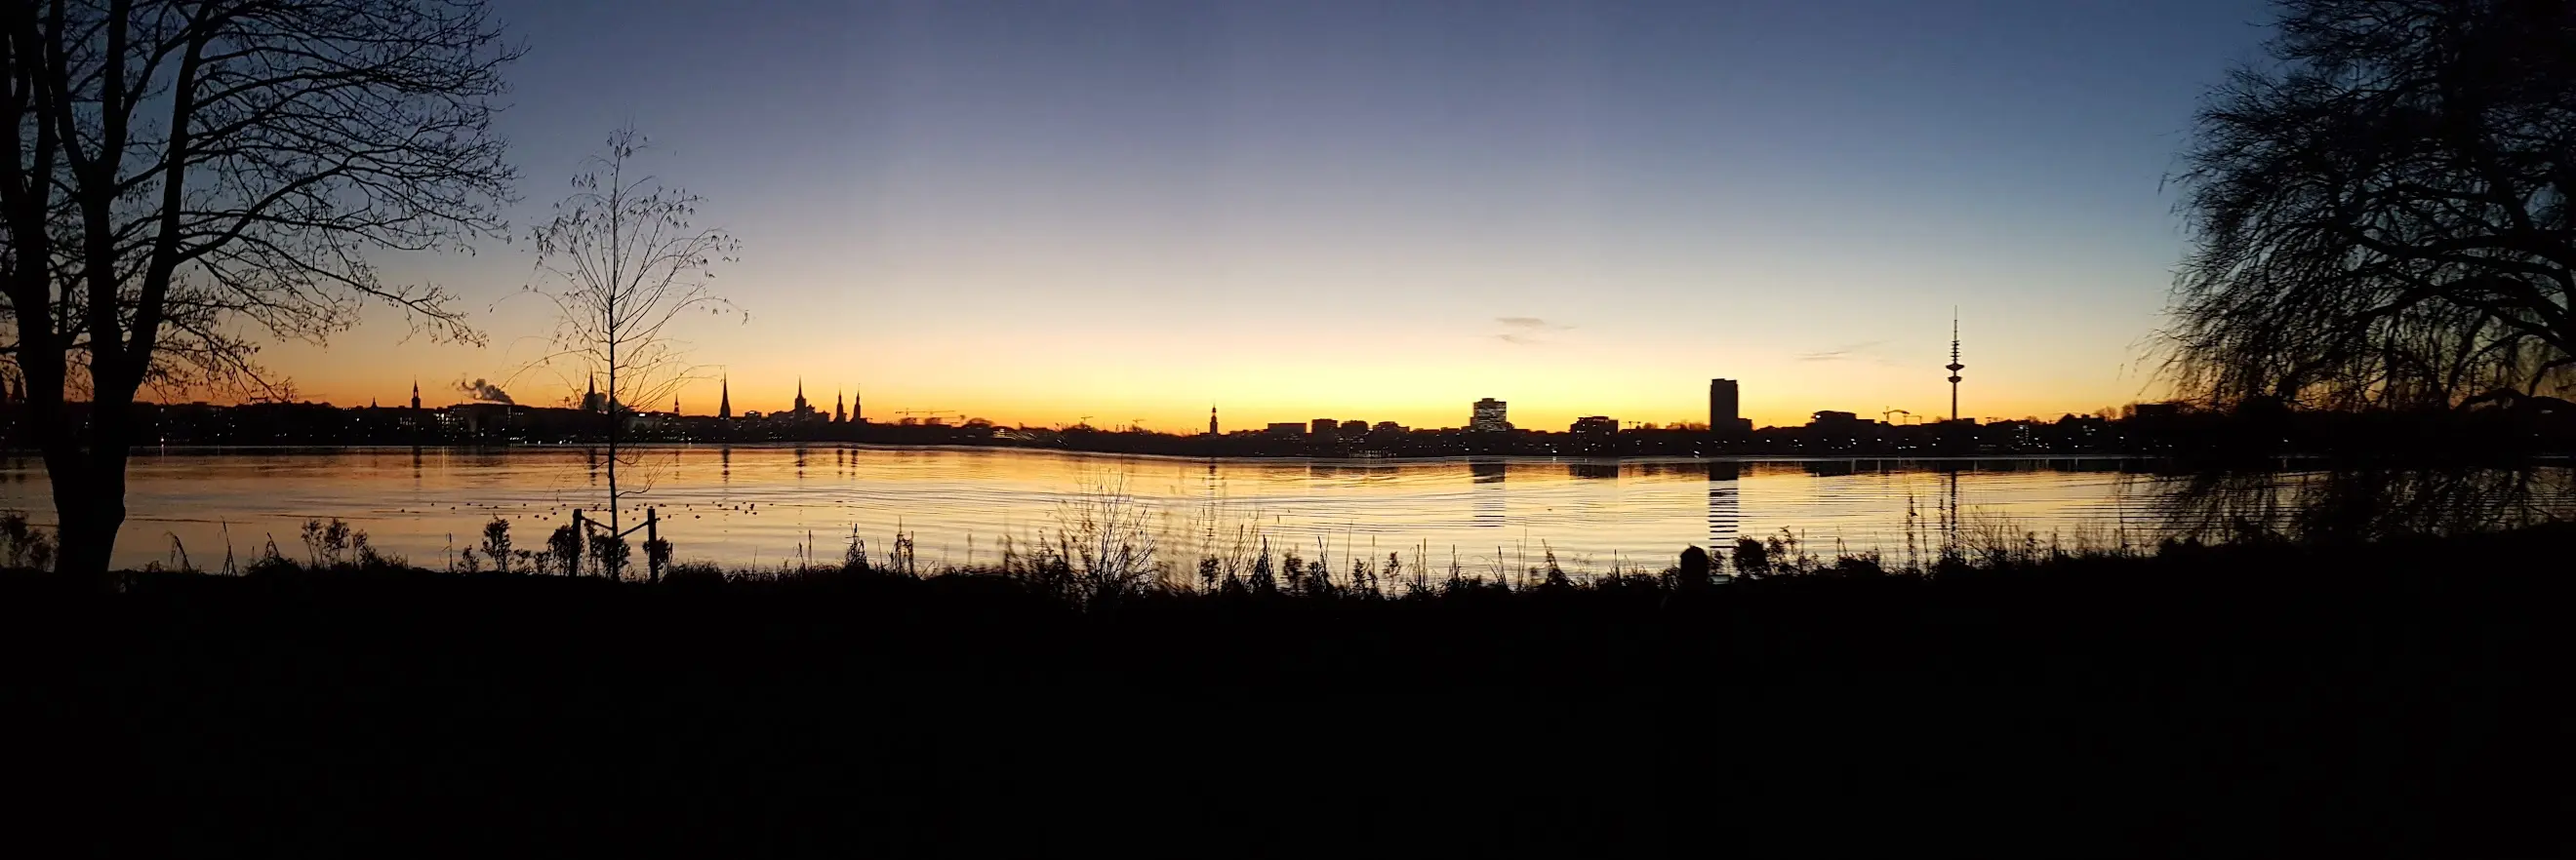
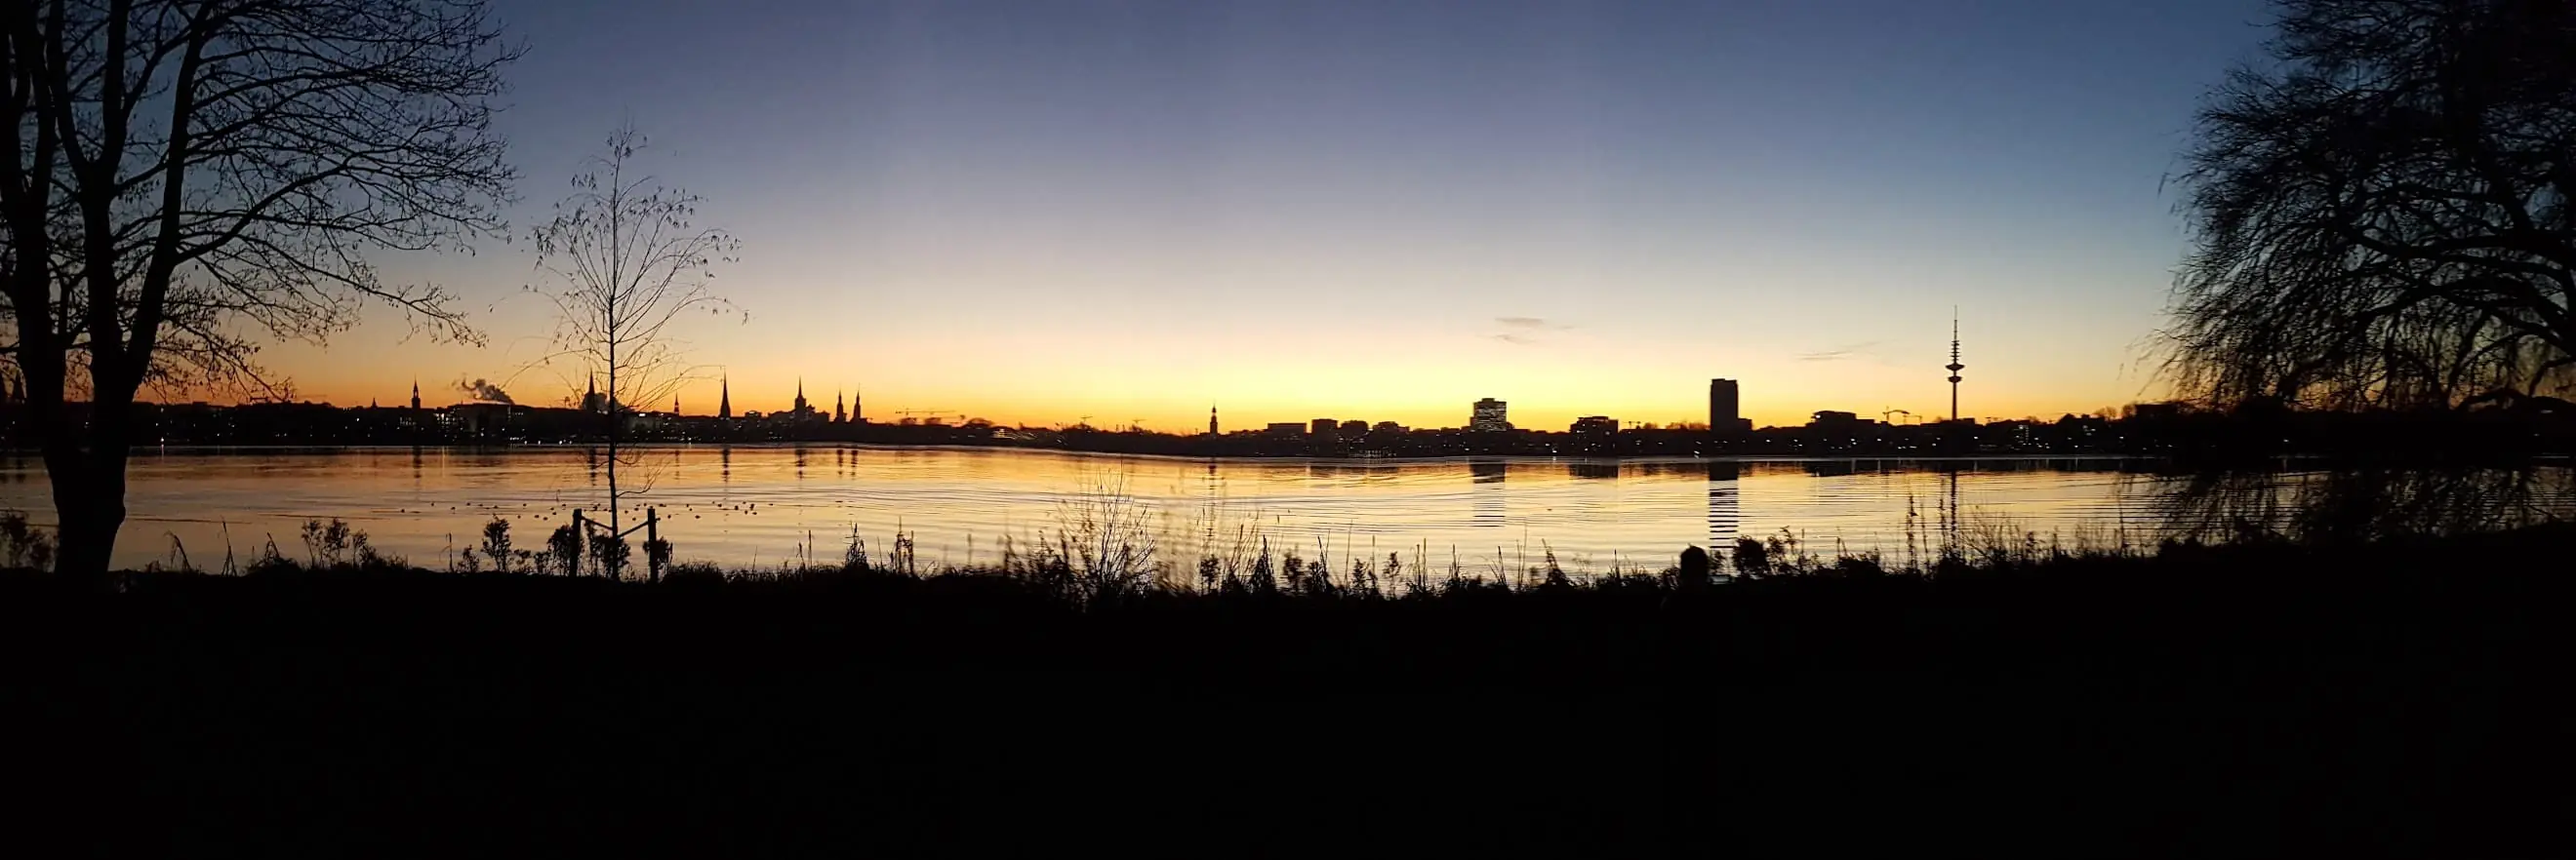
add interactivity and mobile optimizations

diff --git a/src/lib/technologies/technologyGroups.ts b/src/lib/technologies/technologyGroups.ts
@@ -1,0 +1,68 @@
+import { Frequency } from './frequency';
+import type { Technology } from './types';
+
+export const technologyGroups: Record<string, Technology[]> = {
+	Languages: [
+		{
+			name: 'JavaScript',
+			url: 'https://developer.mozilla.org/en-US/docs/Web/JavaScript',
+			frequency: Frequency.Everyday
+		},
+		{ name: 'TypeScript', url: 'https://www.typescriptlang.org/', frequency: Frequency.Everyday },
+		{ name: 'PHP', url: 'https://www.php.net/', frequency: Frequency.Everyday },
+		{ name: 'Dart', url: 'https://dart.dev/', frequency: Frequency.Frequently },
+		{
+			name: 'C#',
+			url: 'https://docs.microsoft.com/en-us/dotnet/csharp/',
+			frequency: Frequency.LessFrequently
+		},
+		{
+			name: 'Golang',
+			url: 'https://golang.org/',
+			frequency: Frequency.LessFrequently
+		},
+		{
+			name: 'Python',
+			url: 'https://www.python.org/',
+			frequency: Frequency.LessFrequently
+		}
+	],
+	Frameworks: [
+		{ name: 'React', url: 'https://reactjs.org/', frequency: Frequency.Everyday },
+		{ name: 'Laravel', url: 'https://laravel.com/', frequency: Frequency.Everyday },
+		{ name: 'Svelte', url: 'https://svelte.dev/', frequency: Frequency.Everyday },
+		{ name: 'SvelteKit', url: 'https://kit.svelte.dev/', frequency: Frequency.Everyday },
+		{ name: 'Vue', url: 'https://vuejs.org/', frequency: Frequency.Frequently },
+		{ name: 'Next.js', url: 'https://nextjs.org/', frequency: Frequency.Frequently },
+		{ name: 'NuxtJS', url: 'https://nuxtjs.org/', frequency: Frequency.LessFrequently },
+		{ name: 'Flutter', url: 'https://flutter.dev/', frequency: Frequency.Frequently }
+	],
+	Testing: [
+		{ name: 'Jest', url: 'https://jestjs.io/', frequency: Frequency.Everyday },
+		{
+			name: 'React Testing Library',
+			url: 'https://testing-library.com/docs/react-testing-library/intro/',
+			frequency: Frequency.Everyday
+		},
+		{ name: 'PHPUnit', url: 'https://phpunit.de/', frequency: Frequency.Everyday },
+		{ name: 'Playwright', url: 'https://playwright.dev/', frequency: Frequency.LessFrequently }
+	],
+	UI: [
+		{ name: 'Tailwind CSS', url: 'https://tailwindcss.com/', frequency: Frequency.Everyday },
+		{ name: 'Material UI', url: 'https://material-ui.com/', frequency: Frequency.Frequently },
+		{ name: 'Storybook', url: 'https://storybook.js.org/', frequency: Frequency.Everyday }
+	],
+	'Databases/Data stores': [
+		{ name: 'MySQL', url: 'https://www.mysql.com/', frequency: Frequency.Everyday },
+		{ name: 'Redis', url: 'https://redis.io/', frequency: Frequency.Frequently },
+		{ name: 'MongoDB', url: 'https://www.mongodb.com/', frequency: Frequency.LessFrequently }
+	],
+	Cloud: [
+		{ name: 'DigitalOcean', url: 'https://www.digitalocean.com/', frequency: Frequency.Everyday },
+		{ name: 'Amazon S3', url: 'https://aws.amazon.com/s3/', frequency: Frequency.Frequently },
+		{ name: 'Firebase', url: 'https://firebase.google.com/', frequency: Frequency.LessFrequently }
+	],
+	'Machine learning/Data science': [
+		{ name: 'Tensorflow', url: 'https://www.tensorflow.org/', frequency: Frequency.LessFrequently }
+	]
+};

diff --git a/src/lib/technologies/TechGrid.svelte b/src/lib/technologies/TechGrid.svelte
@@ -1,59 +1,30 @@
 <script lang="ts">
-	import type { Technology } from 'src/types/technologies';
-
+	import FrequencyCard from './FrequencyCard.svelte';
 	import TechGroup from './TechGroup.svelte';
+	import { technologyGroups } from './technologyGroups';
+	import { filterStore } from './store';
+	import { Frequency } from './frequency';
 
-	const technologyGroups: Record<string, Technology[]> = {
-		Languages: [
-			{
-				name: 'JavaScript',
-				url: 'https://developer.mozilla.org/en-US/docs/Web/JavaScript'
-			},
-			{ name: 'TypeScript', url: 'https://www.typescriptlang.org/' },
-			{ name: 'PHP', url: 'https://www.php.net/' },
-			{ name: 'Dart', url: 'https://dart.dev/' },
-			{
-				name: 'C#',
-				url: 'https://docs.microsoft.com/en-us/dotnet/csharp/'
-			},
-			{
-				name: 'Go',
-				url: 'https://golang.org/'
-			}
-		],
-		Frameworks: [
-			{ name: 'React', url: 'https://reactjs.org/' },
-			{ name: 'Laravel', url: 'https://laravel.com/' },
-			{ name: 'Svelte', url: 'https://svelte.dev/' },
-			{ name: 'SvelteKit', url: 'https://kit.svelte.dev/' },
-			{ name: 'Vue', url: 'https://vuejs.org/' },
-			{ name: 'Next.js', url: 'https://nextjs.org/' },
-			{ name: 'NuxtJS', url: 'https://nuxtjs.org/' },
-			{ name: 'Flutter', url: 'https://flutter.dev/' }
-		],
-		Testing: [
-			{ name: 'Jest', url: 'https://jestjs.io/' },
-			{
-				name: 'React Testing Library',
-				url: 'https://testing-library.com/docs/react-testing-library/intro/'
-			},
-			{ name: 'PHPUnit', url: 'https://phpunit.de/' },
-			{ name: 'Playwright', url: 'https://playwright.dev/' }
-		],
-		UI: [
-			{ name: 'Tailwind CSS', url: 'https://tailwindcss.com/' },
-			{ name: 'Material UI', url: 'https://material-ui.com/' },
-			{ name: 'Storybook', url: 'https://storybook.js.org/' }
-		],
-		'Databases/Data stores': [
-			{ name: 'MySQL', url: 'https://www.mysql.com/' },
-			{ name: 'Redis', url: 'https://redis.io/' },
-			{ name: 'MongoDB', url: 'https://www.mongodb.com/' }
-		]
-	};
+	function onFilter(frequency: Frequency) {
+		filterStore.update((current) => (frequency !== current ? frequency : null));
+	}
 </script>
 
-<h2 class="text-2xl sm:text-3xl leading-6 font-semibold pt-8 pb-4">Technologies I currently use</h2>
+<h2 class="text-2xl sm:text-3xl leading-6 font-semibold py-4 text-center sm:text-left">
+	Technologies I use
+</h2>
+<div class="flex flex-col items-center space-y-3 sm:flex-row sm:space-x-5 sm:space-y-0">
+	<FrequencyCard frequency={Frequency.Everyday} on:click={() => onFilter(Frequency.Everyday)}
+		>Everyday</FrequencyCard
+	>
+	<FrequencyCard frequency={Frequency.Frequently} on:click={() => onFilter(Frequency.Frequently)}
+		>Frequently</FrequencyCard
+	>
+	<FrequencyCard
+		frequency={Frequency.LessFrequently}
+		on:click={() => onFilter(Frequency.LessFrequently)}>Less frequently</FrequencyCard
+	>
+</div>
 <div class="py-6">
 	{#each Object.entries(technologyGroups) as [groupName, technologies]}
 		<TechGroup {groupName} {technologies} />

diff --git a/src/lib/technologies/TechCard.svelte b/src/lib/technologies/TechCard.svelte
@@ -1,16 +1,32 @@
 <script lang="ts">
-	import type { Technology } from 'src/types/technologies';
+	import type { Technology } from './types';
+	import { Frequency } from './frequency';
 
 	export let technology: Technology;
+
+	function getColorClasses(frequency: Frequency): string {
+		if (frequency === Frequency.Frequently) {
+			return 'bg-indigo-600 group-hover:bg-indigo-400';
+		}
+
+		if (frequency === Frequency.LessFrequently) {
+			return 'bg-yellow-400 group-hover:bg-yellow-300';
+		}
+
+		return 'bg-green-700 group-hover:bg-green-500';
+	}
+
+	$: colors = getColorClasses(technology.frequency);
 </script>
 
 <a
 	href={technology.url}
 	target="_blank"
 	rel="noopener noreferrer"
-	class="shadow-lg hover:shadow-2xl hover:z-50 transition duration-400 ease-in-out hover:scale-105 hover:transform hover:-skew-y-1 px-2 pt-1 pb-2 bg-white text-gray-900 rounded-lg overflow-hidden hover:bg-gray-700 hover:text-white cursor-pointer"
+	class="group flex items-center px-2 py-2 shadow-lg hover:shadow-2xl hover:z-50 transition duration-400 ease-in-out hover:scale-105 hover:transform sm:hover:-skew-y-1 bg-white text-gray-900 rounded-lg overflow-hidden hover:bg-gray-700 hover:text-white cursor-pointer"
 >
-	<div class="mt-1 text-2xl font-medium">
+	<hr class={`${colors} border-0 w-2 h-full mr-2`} />
+	<div class="text-xl sm:text-2xl font-medium">
 		{technology.name}
 	</div>
 </a>

diff --git a/src/lib/technologies/FrequencyCard.svelte b/src/lib/technologies/FrequencyCard.svelte
@@ -1,0 +1,38 @@
+<script lang="ts">
+	import { createEventDispatcher } from 'svelte';
+	import { Frequency } from './frequency';
+	import { filterStore } from './store';
+
+	export let frequency: Frequency;
+
+	const dispatch = createEventDispatcher<{ click: never }>();
+	const onClick = () => dispatch('click');
+
+	function getColorClasses(frequency: Frequency): string {
+		if (frequency === Frequency.Frequently) {
+			return 'bg-indigo-600 text-white hover:bg-indigo-900';
+		}
+
+		if (frequency === Frequency.LessFrequently) {
+			return 'bg-yellow-400 text-yellow-900 hover:bg-yellow-600';
+		}
+
+		return 'bg-green-700 text-white hover:bg-green-900';
+	}
+
+	$: colors = getColorClasses(frequency);
+
+	let filteredFrequency: Frequency | null = null;
+	filterStore.subscribe((frequency) => {
+		filteredFrequency = frequency;
+	});
+</script>
+
+<button
+	on:click={onClick}
+	class={`${colors} ${
+		filteredFrequency === frequency ? 'shadow-xl font-semibold scale-110' : 'shadow-lg'
+	} hover:text-white overflow-hidden w-full sm:w-auto px-2 py-1 sm:px-6 sm:py-2 sm:text-lg rounded-full hover:z-50 transition duration-400 ease-in-out hover:scale-105 sm:hover:-skew-y-1`}
+>
+	<slot />
+</button>

diff --git a/src/lib/technologies/TechGroup.svelte b/src/lib/technologies/TechGroup.svelte
@@ -1,15 +1,35 @@
 <script lang="ts">
-	import type { Technology } from 'src/types/technologies';
+	import type { Technology } from './types';
+	import type { Frequency } from './frequency';
 
+	import { filterStore } from './store';
 	import TechCard from './TechCard.svelte';
 
 	export let groupName: string;
-	export let technologies: Technology[];
+	export let technologies: Technology[] = [];
+
+	$: sortedTechnologies = technologies
+		.sort((a, b) => a.name.localeCompare(b.name))
+		.sort((a, b) => a.frequency - b.frequency);
+
+	let filteredFrequency: Frequency | null = null;
+	filterStore.subscribe((frequency) => {
+		filteredFrequency = frequency;
+	});
+
+	$: filteredTechnologies =
+		filteredFrequency !== null
+			? sortedTechnologies.filter((t) => t.frequency === filteredFrequency)
+			: sortedTechnologies;
 </script>
 
 <h2 class="text-xl leading-6 font-bold text-gray-900">{groupName}</h2>
 <div class="mt-4 mb-8 grid grid-cols-1 gap-5 sm:grid-cols-3">
-	{#each technologies as technology}
+	{#if filteredTechnologies.length === 0}
+		<div>- Empty -</div>
+	{/if}
+
+	{#each filteredTechnologies as technology}
 		<TechCard {technology} />
 	{/each}
 </div>

diff --git a/src/lib/footer/Footer.svelte b/src/lib/footer/Footer.svelte
@@ -1,11 +1,9 @@
 <footer class="bg-gray-900">
-	<div
-		class="max-w-7xl mx-auto py-12 px-4 sm:px-6 md:flex md:items-center md:justify-between lg:px-8"
-	>
-		<div class="flex justify-center space-x-6 md:order-2">
+	<div class="max-w-7xl mx-auto py-12 px-4 sm:px-8 sm:flex sm:items-center sm:justify-between">
+		<div class="flex justify-center space-x-6 sm:order-2">
 			<a href="/imprint" class="text-gray-300 hover:text-gray-400">Imprint</a>
 		</div>
-		<div class="mt-8 md:mt-0 md:order-1">
+		<div class="mt-8 sm:mt-0 sm:order-1">
 			<p class="text-center text-base text-gray-400">
 				&copy; {new Date().getFullYear()} Timo Prüße, Inc. All rights reserved.
 			</p>

diff --git a/src/lib/header/Header.svelte b/src/lib/header/Header.svelte
@@ -13,6 +13,15 @@
 	<div class="relative bg-black">
 		<div class="absolute inset-0">
 			<picture>
+				<source
+					media="(max-width: 540px) and (orientation:portrait)"
+					srcset="header_bg_mobile.webp"
+					type="image/webp"
+				/>
+				<source
+					media="(max-width: 540px) and (orientation:portrait)"
+					srcset="header_bg_mobile.jpg"
+				/>
 				<source srcset="header_bg.webp" type="image/webp" />
 				<img
 					class="w-full h-full object-cover"

diff --git a/svelte.config.js b/svelte.config.js
@@ -1,5 +1,5 @@
 import preprocess from 'svelte-preprocess';
-import html from '@sveltejs/adapter-static';
+import node from '@sveltejs/adapter-node';
 
 /** @type {import('@sveltejs/kit').Config} */
 const config = {
@@ -8,7 +8,7 @@ const config = {
 	preprocess: preprocess(),
 
 	kit: {
-		adapter: html(),
+		adapter: node(),
 		// hydrate the <div id="svelte"> element in src/app.html
 		target: '#svelte'
 	}

diff --git a/src/routes/index.svelte b/src/routes/index.svelte
@@ -3,8 +3,8 @@
 	import { headerStore } from '$lib/header/store';
 	import TechGrid from '$lib/technologies/TechGrid.svelte';
 
-	export const hydrate = dev;
 	export const router = browser;
+	export const hydrate = true;
 	export const prerender = true;
 
 	/**

diff --git a/src/routes/imprint/index.svelte b/src/routes/imprint/index.svelte
@@ -3,8 +3,8 @@
 	import { headerStore } from '$lib/header/store';
 	import Address from '$lib/address/Address.svelte';
 
-	export const hydrate = dev;
 	export const router = browser;
+	export const hydrate = dev;
 	export const prerender = true;
 
 	/**

diff --git a/src/lib/technologies/store.ts b/src/lib/technologies/store.ts
@@ -1,0 +1,4 @@
+import { writable } from 'svelte/store';
+import type { Frequency } from './frequency';
+
+export const filterStore = writable<Frequency | null>(null);

diff --git a/src/lib/technologies/types.ts b/src/lib/technologies/types.ts
@@ -1,0 +1,7 @@
+import type { Frequency } from './frequency';
+
+export interface Technology {
+	name: string;
+	url: string;
+	frequency: Frequency;
+}
